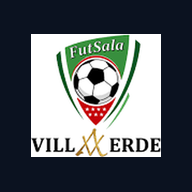
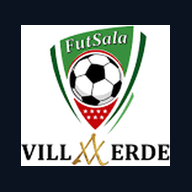
Add files via upload

diff --git a/index.html b/index.html
@@ -5,7 +5,7 @@
 <meta name="viewport" content="width=device-width, initial-scale=1, viewport-fit=cover">
 <meta name="theme-color" content="#0b1220">
 <link rel="manifest" href="./manifest.webmanifest">
-<link rel="apple-touch-icon" href="./icon-192.png">
+<link rel="apple-touch-icon" href="./apple-touch-icon.png">
 <meta name="apple-mobile-web-app-capable" content="yes">
 <meta name="apple-mobile-web-app-status-bar-style" content="black-translucent">
 <meta name="apple-mobile-web-app-title" content="Futsala">
@@ -870,7 +870,7 @@ function renderHome(){
   </div>` : "";
 
   el.innerHTML=`
-    <div class="home-hero"><div class="hi">${saludo}</div><div class="sub">${esc(fecha)}</div></div>
+    <div class="home-hero"><div class="row" style="align-items:flex-start"><div class="grow"><div class="hi">${saludo}</div><div class="sub">${esc(fecha)}</div></div>${authToken?`<button class="btn sm ghost" id="hLogout" style="opacity:.65;font-size:12px">Salir</button>`:""}</div></div>
     ${nextMatchHTML}
     ${nextHTML}
     ${shortcuts}
@@ -880,6 +880,7 @@ function renderHome(){
     ${balance}`;
 
   const pm=el.querySelector("#hPrepMatch"); if(pm) pm.onclick=()=>{ tab="match"; renderTabs(); prepareFixture(nm.id); };
+  const hlo=el.querySelector("#hLogout"); if(hlo) hlo.onclick=()=>{ if(confirm("¿Cerrar sesión en este dispositivo? Los datos siguen en la nube; para volver a sincronizar tendrás que iniciar sesión de nuevo.")){ cloudLogout(); } };
 
   const cfg=el.querySelector("#hCfg"); if(cfg) cfg.onclick=()=>{ openSessionId=null; trainTab="sessions"; tab="train"; renderTabs(); renderTrain(); calConfig(); };
   const prep=el.querySelector("#hPrep"); if(prep) prep.onclick=()=>homeOpenSession(nd);
@@ -1053,11 +1054,6 @@ function matchHomeHTML(){
       <button class="btn sm ghost" id="mhImport">⬆ Importar / acumular</button>
     </div>
     <div class="muted small" style="margin-top:8px">Guarda o junta datos entre tus dispositivos.</div>
-    <div class="hr"></div>
-    <div class="row" style="align-items:center;gap:8px">
-      <div class="grow"><b class="small">Nube</b><div class="muted small">${authToken?"Sesión iniciada · sincronizando":"Sin conexión con la nube"}</div></div>
-      ${authToken?`<button class="btn sm ghost" id="mhLogout">Cerrar sesión</button>`:`<button class="btn sm primary" id="mhLoginBtn">Iniciar sesión</button>`}
-    </div>
   </div>`;
 
   return nextCard + listCard + looseCard + dataCardHTML;
@@ -1071,8 +1067,6 @@ function bindMatchHome(){
   const resume=el.querySelector("#mhResume"); if(resume) resume.onclick=(e)=>{ e.preventDefault(); matchView="call"; renderMatch(); };
   el.querySelector("#mhExport").onclick=exportData;
   el.querySelector("#mhImport").onclick=importData;
-  const lo=el.querySelector("#mhLogout"); if(lo) lo.onclick=()=>{ if(confirm("¿Cerrar sesión en este dispositivo? Los datos seguirán en la nube; para volver a sincronizar tendrás que iniciar sesión otra vez.")){ cloudLogout(); } };
-  const li=el.querySelector("#mhLoginBtn"); if(li) li.onclick=()=>showLogin();
 }
 function prepareFixture(id){
   const fx=S.matches.find(x=>x.id===id); if(!fx) return;

diff --git a/service-worker.js b/service-worker.js
@@ -1,8 +1,8 @@
 /* Futsala Villaverde — service worker
    Estrategia: "red primero" para tener siempre la última versión cuando hay
    conexión, con respaldo en caché para funcionar sin internet (pabellones). */
-var CACHE = "futsala-v1";
-var ASSETS = ["./", "./index.html", "./manifest.webmanifest", "./icon-192.png", "./icon-512.png"];
+var CACHE = "futsala-v2";
+var ASSETS = ["./", "./index.html", "./manifest.webmanifest", "./icon-192.png", "./icon-512.png", "./apple-touch-icon.png"];
 
 self.addEventListener("install", function(e){
   e.waitUntil(caches.open(CACHE).then(function(c){ return c.addAll(ASSETS); }).then(function(){ return self.skipWaiting(); }));
